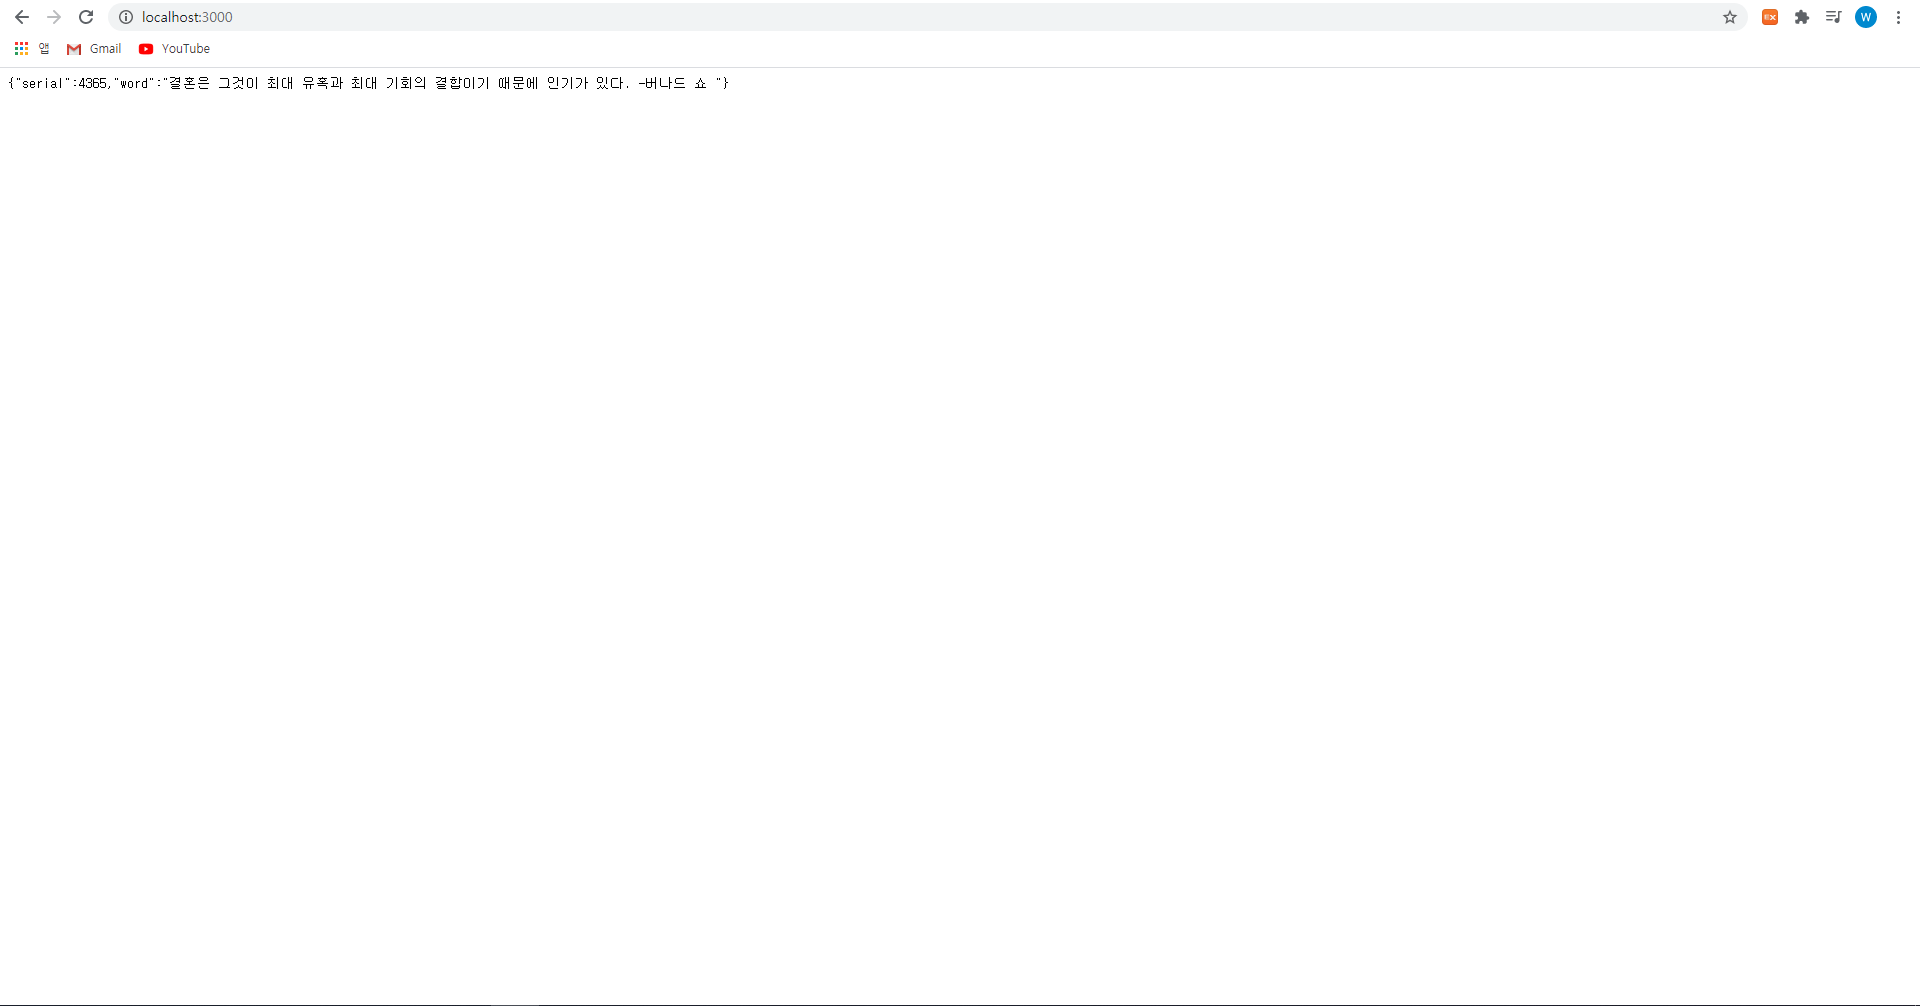
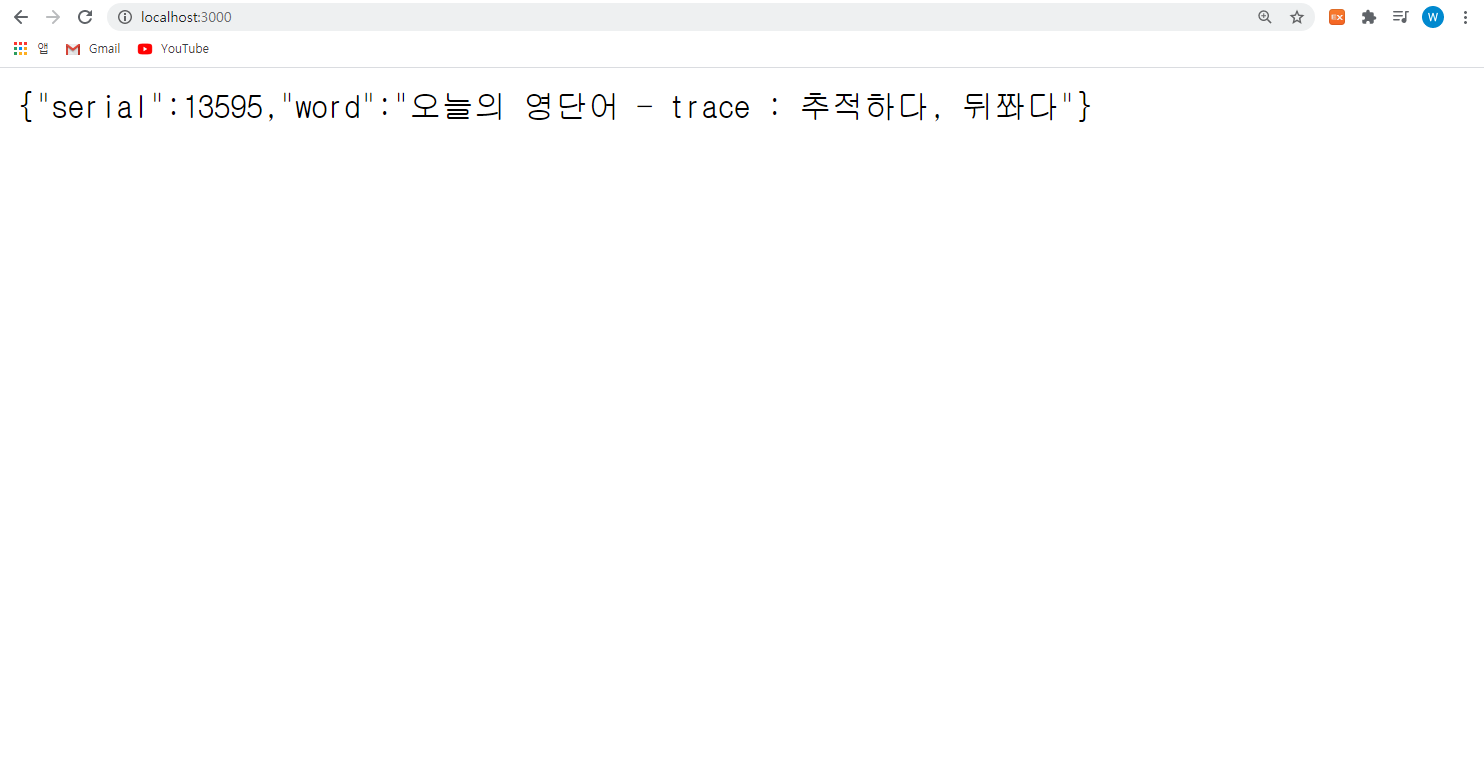
Fix Syntax Error, Change Example Pictrue

diff --git a/utils/getProverb.js b/utils/getProverb.js
@@ -15,7 +15,7 @@ const getProverb = () => {
                 result.word = rows[0].word
                 resolve(result)
             } catch {
-                resolve(`{serial: 0, world: '값을 불러올 수 없습니다.'}`)
+                resolve(`{"serial": 0, "word": "올바르지 않은 접근입니다."}`)
             }
         });
     })

diff --git a/index.js b/index.js
@@ -12,7 +12,7 @@ app.get('/', (req, res) => {
 })
 
 app.use(function(req, res, next) {
-  res.status(404).send("{serial: 0, word: '올바르지 않은 접근입니다.'}");
+  res.status(404).send(`{"serial": 0, "word": "올바르지 않은 접근입니다."}`);
 })
 
 app.listen(3000, () => {
